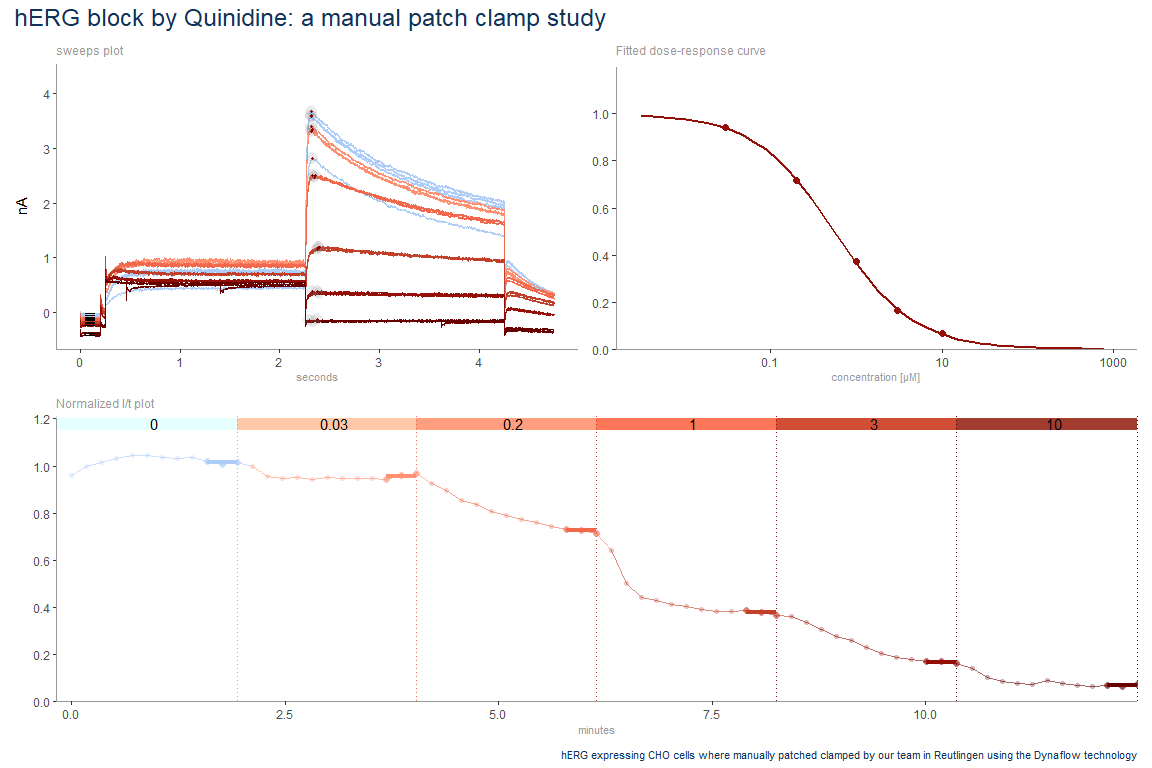
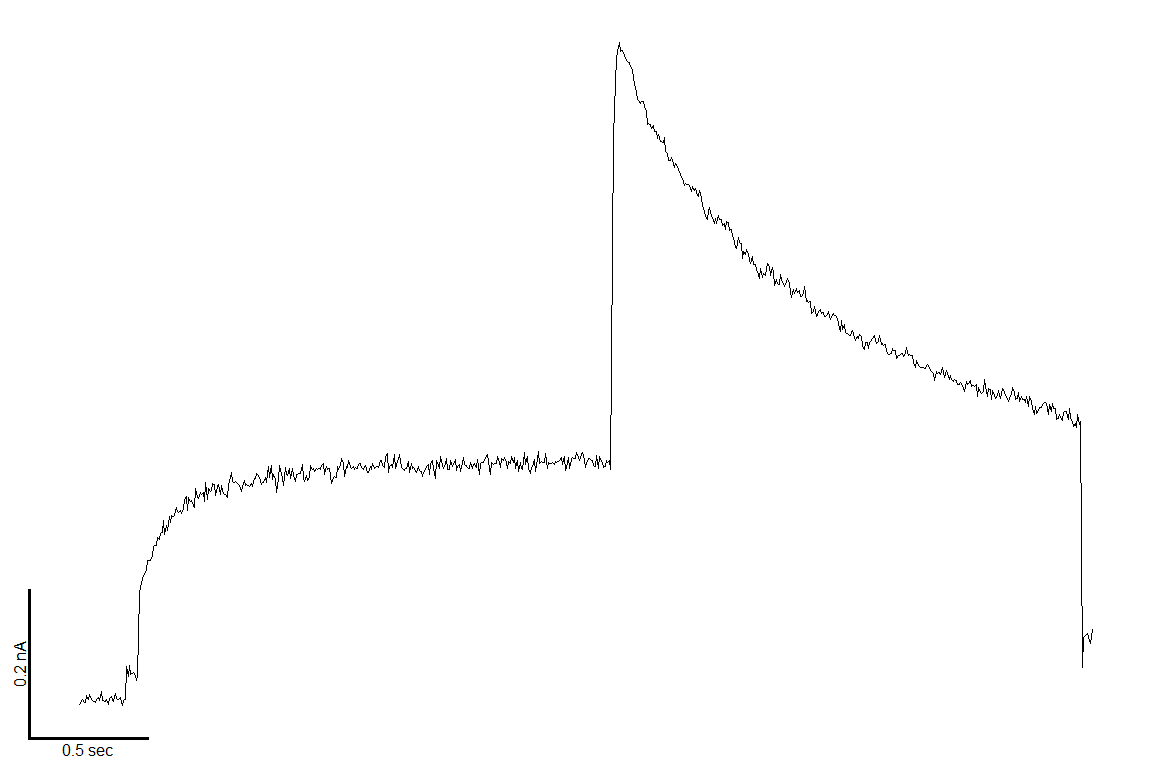
README

diff --git a/README.md b/README.md
@@ -1,7 +1,6 @@
 ephys4
 ================
 
-
 # ephys4 <img src="man/figures/logo.png" align="right" />
 
 ## Read, plot and analyse ephys data
@@ -18,38 +17,33 @@ and performs analyses on them.
 
 ### Package Installation
 
-If your system is [setup to use this repository](../repo_setup.html),
-you can install the package simply by typing:
-
 ``` r
-install.packages("ephys4")
+remotes::install_github("NMIephys/ggscalebars")
 ```
 
 ``` r
 # read and plot HEKA patch-clamp file
-HEKA <- (
-  read_PATCHMASTER("VG_Blocker.dat", exp = 1, ser = 2) %>% filter(swp==6) %>%
-            add_cursor_point(name = "peak", start=.01,end=.012, fun = min) -> HEKA_results ) %>%
-            ggsweeps() + 
-            ggtitle("HEKA", subtitle = "Sodium Channel")
+library(ephys4Patchmaster)
+```
 
-# read and plot HAMAMATSU file
-HAMA <- (
-  
-  read_HAMAMATSU("HAMAMATSU/cardiomyocytes.TXT") %>%  filter(well=="A2") %>% 
-            add_cursor_points("peak",start=20,end=40, fun = max)     -> HAMA_results) %>%
-  
-            ggsweeps() + 
-            ggtitle("HAMAMTSU", subtitle = "Cardiomyocytes")
+    ## Lade nötiges Paket: ephys4R
 
-# read, analyse, and plot Roboocyte file
-ROBO <- (read_ROBOO("roboocyte/0626.1.r2d") %>%  head(1) %>%  
-           add_cursor_point(name = "peak", start=39, end=119, fun = min)-> ROBO_results) %>% 
-           ggsweeps() + 
-           ggtitle("ROBOCYTE", subtitle = "GABA-A")
+    ## Lade nötiges Paket: scalebars
 
-# show all 3 plots
-HEKA + ROBO / HAMA 
+    ## 
+    ## Attache Paket: 'scalebars'
+
+    ## Die folgenden Objekte sind maskiert von 'package:ggscalebars':
+    ## 
+    ##     coord_scalebars, scalebars, theme_scalebar_h, theme_scalebar_v,
+    ##     theme_scalebars
+
+``` r
+herg.plot <- (
+  read_PATCHMASTER(ephysdata::examplefile("herg"), exp = 1, ser = 1) %>% 
+             ggsweeps() )
+
+herg.plot 
 ```
 
 ![](man/figures/readme_plot-1.png)<!-- -->